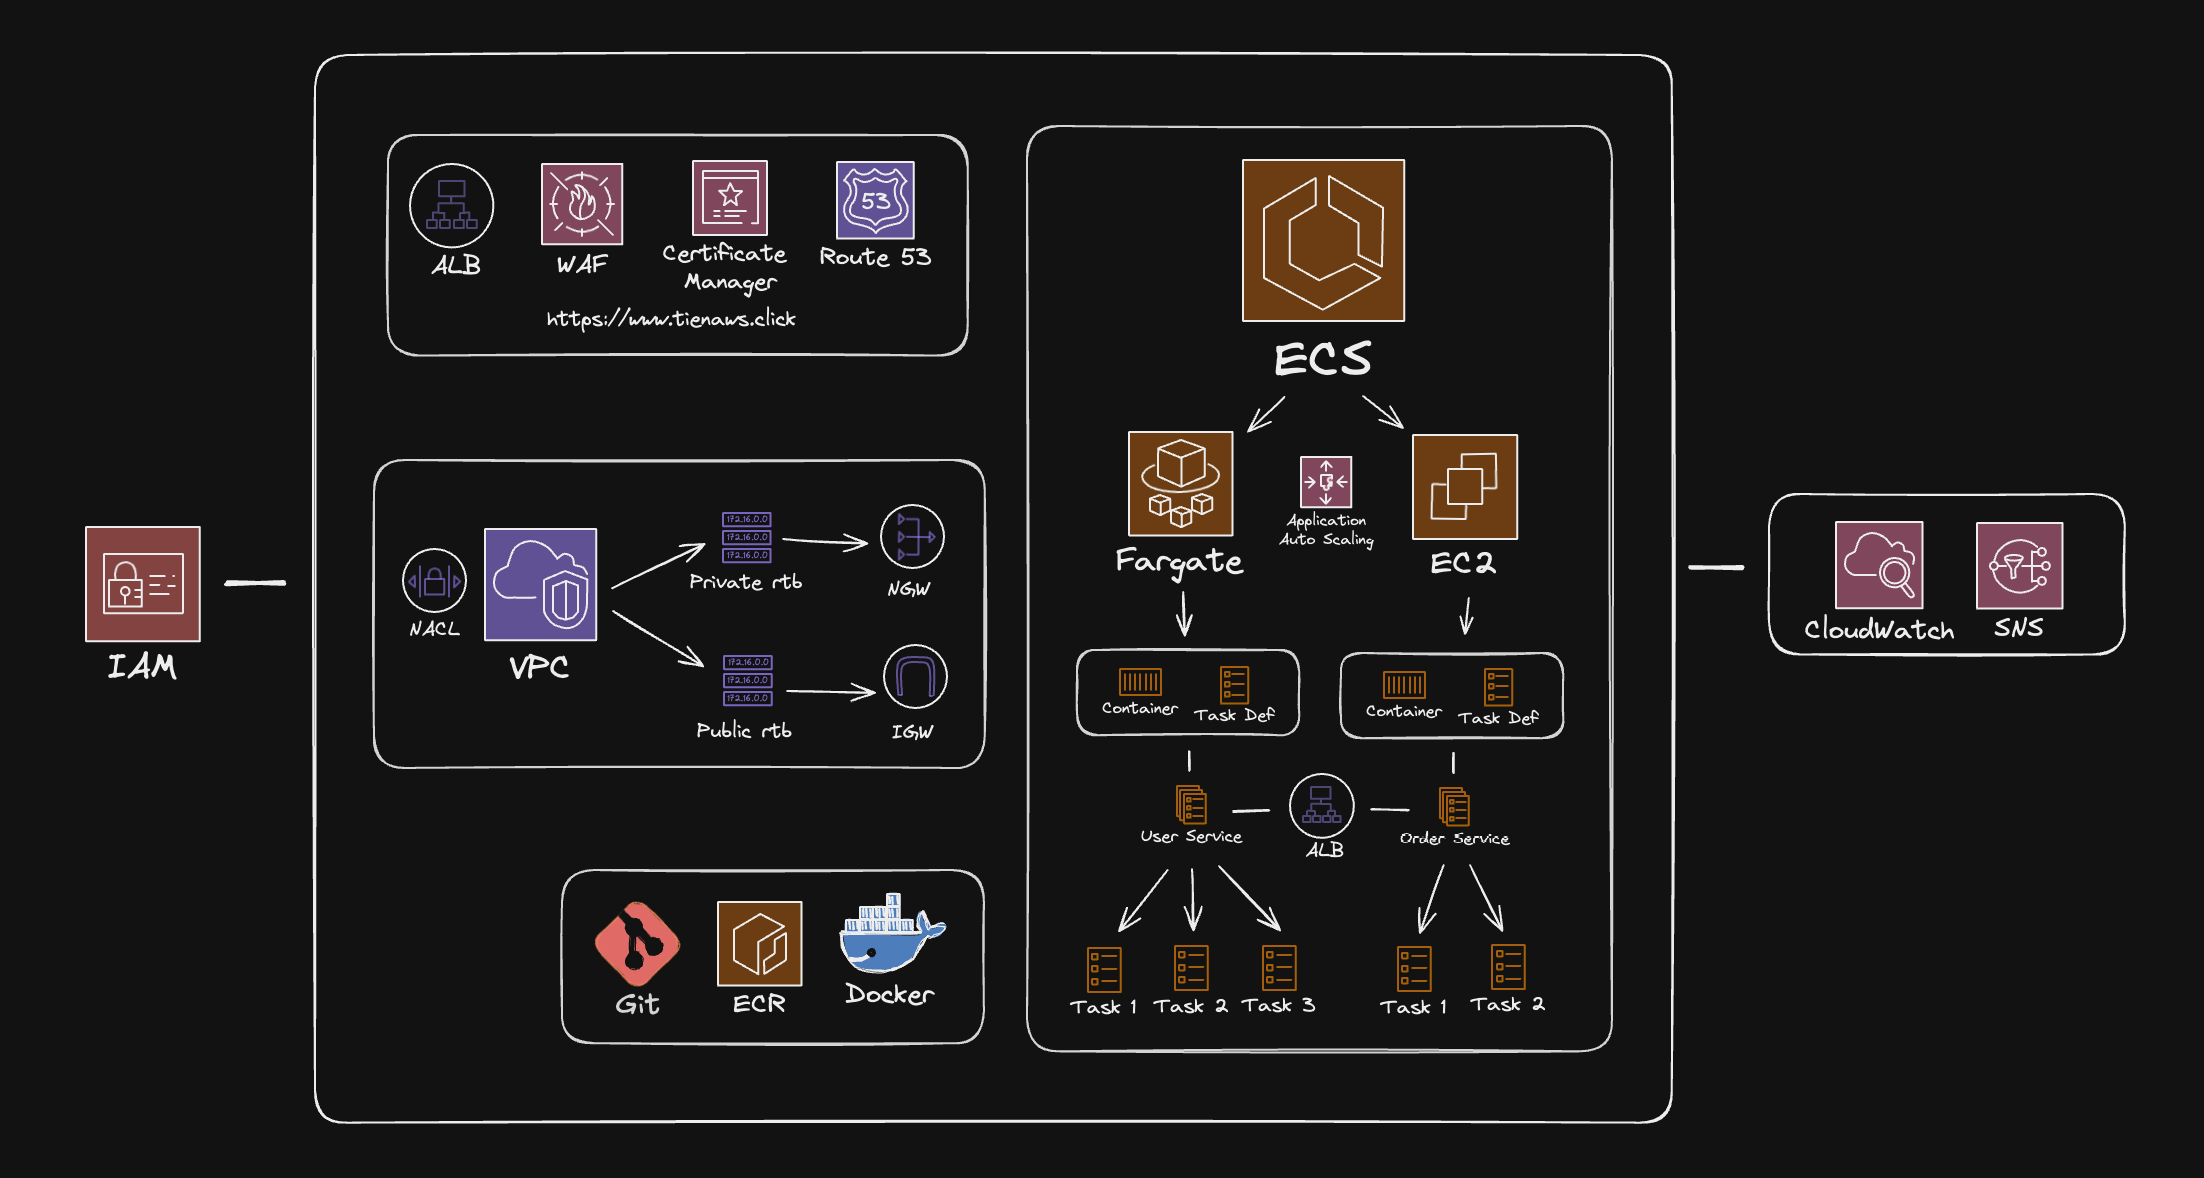
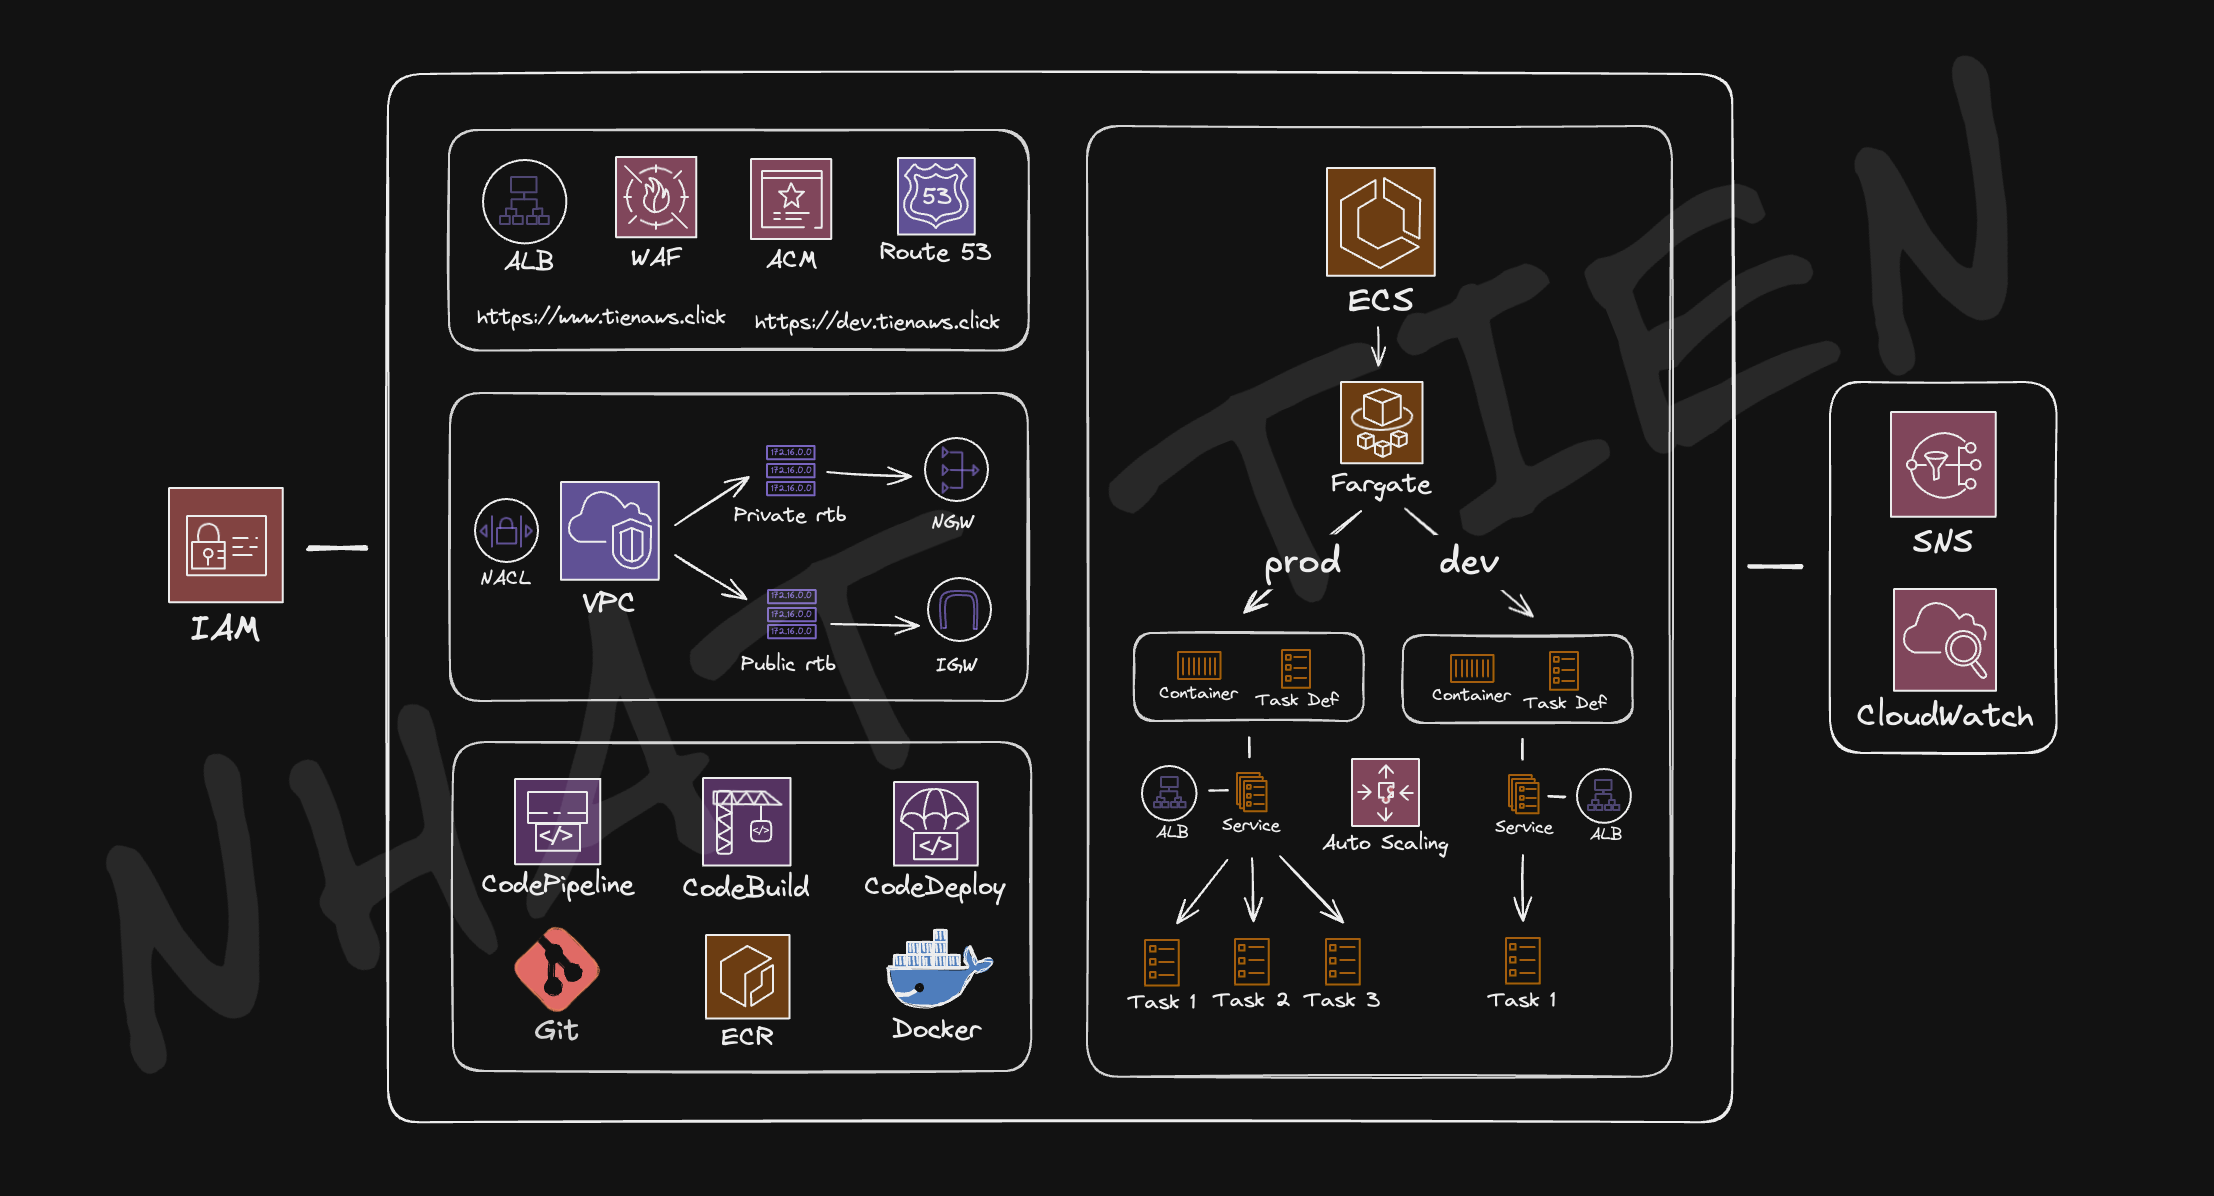
refactor

diff --git a/README.md b/README.md
@@ -1,106 +1,152 @@
-# 📌 Cloud Application Deployment with AWS ECS
+# 📌 Cloud Infrastructure & Deployment with AWS ECS
 
 ## 📝 Project Overview
 
-This project aims to deploy and manage containerized applications on AWS using Amazon ECS (Elastic Container Service). The solution supports both EC2 and Fargate launch types, providing a highly scalable, secure, and automated cloud deployment model that adheres to AWS best practices. The infrastructure leverages key AWS services including VPC, Subnets, Internet Gateway, NAT Gateway, Application Load Balancer (ALB), Security Groups, ECS Clusters, Task Definitions, and Auto Scaling. Additionally, the project integrates AWS Route 53 and ACM for secure HTTPS access.
-
 ![overview](resources/overview.png)
+
+---
 
 ## 🏗 Architecture & Technologies
 
 ### 🧱 Infrastructure & Networking
 
-- <img src="https://i.imgur.com/FNOLEI9.jpeg" width="30" height="30" /> **Amazon VPC (Virtual Private Cloud)**:  
-  A custom VPC (`container_vpc`) with six subnets, including public, private, and database subnets, designed to isolate workloads for enhanced security.
-
-- **Internet Gateway (IGW)**:  
-  Enables access to public resources from the internet, attached to `container_vpc`.
-
-- **NAT Gateway (NGW)**:  
-  Provides secure internet access for private subnets, associated with an Elastic IP in `container_public_az1`.
-
+- <img src="https://i.imgur.com/FNOLEI9.jpeg" width="30" height="30" /> **Virtual Private Cloud (VPC)**: A custom network setup with multiple subnets, including public, private, and database subnets, ensuring workload isolation and security.
+- **Internet Gateway (IGW)**: Allows access to public resources from the internet, attached to the VPC.
+- **NAT Gateway (NGW)**: Provides secure internet access for private subnets, associated with an Elastic IP.
 - **Route Tables**:
-
-  - **Public Route Table**: Routes traffic from public subnets to the internet via IGW.
-  - **Private Route Table**: Routes traffic from private subnets to the internet via NGW.
-
-- **Network ACLs (NACLs)**:  
-  Configured to manage inbound and outbound traffic across subnets, ensuring robust security across the environment.
-
-  ![vpc](resources/vpc.png)
-
+  - Public route table directs traffic to the internet via IGW.
+  - Private route table routes traffic via NGW.
+- **Network ACLs (NACLs)**: Manages inbound and outbound traffic across subnets to enhance security.
 - **Security Groups (SGs)**:
+  - Public security group allows HTTP, HTTPS, and application-specific traffic.
+  - Private security group restricts access, permitting only traffic from the load balancer.
 
-  - **container_public_sg**: Allows inbound HTTP (80), HTTPS (443), and application-specific port (8080) traffic.
-  - **container_private_sg**: Restricts access to private subnets, only allowing traffic originating from the Application Load Balancer (ALB).
+![vpc](resources/vpc.png)
 
-  ![sg](resources/sg.png)
-
-### 🖥 Compute & Container Orchestration
-
-- <img src="https://i.imgur.com/SWw2HAB.png" width="30" height="30" /> **Amazon ECS Cluster (`tienaws-ecs`)**:  
-  Manages containerized workloads and tasks across EC2 and Fargate launch types.
-
-- <img src="https://i.imgur.com/WZPqH1T.png" width="30" height="30" /> **AWS Fargate**:  
-  A serverless compute engine that abstracts infrastructure management, allowing ECS tasks to be run without the need for provisioning servers.
-
-- <img src="https://i.imgur.com/9AUocjJ.png" width="30" height="30" /> **EC2 Instance**:  
-  ECS-optimized Amazon Linux 2 instance (`t2.micro`), used to support EC2-based ECS deployments.
-
-- <img src="https://i.imgur.com/4rPiNGc.png" width="30" height="30" /> **ECR**:  
-  A fully managed **private** Docker container registry where images used by ECS tasks are securely stored and versioned.
-
-- <img src="https://raw.githubusercontent.com/devicons/devicon/master/icons/docker/docker-original.svg" alt="Docker" width="30" height="30"/> **Docker**:  
-  Container runtime used to run containerized applications within ECS tasks.
-
-  ![ecr](resources/ecr.png)
-
-### 💸 Deployment & Scaling
-
-- **Task Definitions**:
-
-  - `order-ec2-td`: Task definition for EC2-based deployments, using the `awsvpc` networking mode.
-  - `user-fargate-td`: Task definition for Fargate-based deployments, also using the `awsvpc` networking mode.
-
-- **ECS Services**:
-
-  - **`order-svc`**: Runs on EC2 instances using the `order-ec2-td` task definition, deployed in private subnets behind an ALB.
-  - **`user-svc`**: Runs on AWS Fargate using the `user-fargate-td` task definition, deployed in private subnets behind an ALB.
-
-- **Auto Scaling**:
-
-  - Configured with a minimum of 1 and a maximum of 5 tasks, using the `ALBRequestCountPerTarget` metric for scaling based on incoming traffic.
-
-  ![services](resources/services.png)
+---
 
 ### ⚖ Load Balancing & DNS
 
-- <img src="https://i.imgur.com/GMr01eh.png" width="30" height="30" /> **Application Load Balancer (ALB)**:  
-  Manages HTTP/HTTPS traffic and distributes it to ECS services based on defined routing rules. The ALB is configured with two listeners: port 80 for HTTP and port 443 for HTTPS. Target Groups (`alb-tg-default`, `order-svc`, `user-svc`) route traffic to appropriate services based on path patterns.
+- <img src="https://i.imgur.com/GMr01eh.png" width="30" height="30" /> **Application Load Balancer (ALB)**: Manages HTTP/HTTPS traffic and distributes it to services based on routing rules.
 
-  ![alb](resources/alb.png)
+![alb](resources/alb.png)
 
-- <img src="https://i.imgur.com/jFcQvRW.png" width="30" height="30" /> **AWS Web Application Firewall (WAF)**: Protects the application from common web threats, such as **SQL Injection (SQLi)** and **Cross-Site Scripting (XSS)**. Integrated with **Application Load Balancer**, AWS WAF filters and blocks malicious traffic based on defined security rules.
+- <img src="https://i.imgur.com/jFcQvRW.png" width="30" height="30" /> **Web Application Firewall (WAF)**: Protects against common security threats, including SQL Injection (SQLi) and Cross-Site Scripting (XSS).
 
-  ![alb](resources/waf.png)
+  - DEV
+    ![waf-dev](resources/waf-dev.png)
+  - PROD
+    ![waf-prod](resources/waf-prod.png)
 
-- <img src="https://i.imgur.com/CHzMALx.png" width="30" height="30" /> **AWS Route 53**:  
-  The DNS service is configured with a custom domain (`tienaws.click`). The ALB is mapped to `ecs-alb.tienaws.click` via an A record for DNS resolution, ensuring seamless access to the application.
+- <img src="https://i.imgur.com/CHzMALx.png" width="30" height="30" /> **Amazon Route 53**: Routes domain traffic to the appropriate endpoints.
 
-  ![route-53](resources/route-53.png)
+![route-53](resources/route-53.png)
 
-- <img src="https://i.imgur.com/s1HtY0n.png" width="30" height="30" /> **AWS Certificate Manager (ACM)**:
-  Provides SSL/TLS certificate for securing HTTPS traffic. HTTP requests are automatically redirected to HTTPS using a listener rule on the ALB, ensuring secure communication.
+- <img src="https://i.imgur.com/s1HtY0n.png" width="30" height="30" /> **Certificate Manager (ACM)**: Provides SSL/TLS certificates to ensure secure communication over HTTPS.
 
-  ![acm](resources/acm.png)
+![acm](resources/acm.png)
 
-## 🌐 Application Access
+---
 
-- **Main URL**:
-  ❗❗The application is currently unavailable as the services have been stopped to prevent additional costs.
+### 🖥 Container Orchestration
 
-  - [https://www.tienaws.click/](https://ecs-alb.tienaws.click/)
-  - [https://www.tienaws.click/user](https://ecs-alb.tienaws.click/user)
-  - [https://www.tienaws.click/order](https://ecs-alb.tienaws.click/order)
+- <img src="https://i.imgur.com/SWw2HAB.png" width="30" height="30" /> **Elastic Container Service (ACM)**: A fully managed container orchestration service that simplifies the deployment, scaling, and management of containerized applications.
+- <img src="https://i.imgur.com/WZPqH1T.png" width="30" height="30" /> **Serverless Compute Engine (Fargate)**: Eliminates the need for server provisioning, allowing automatic scaling and resource optimization.
 
-    ![user](resources/user-service.png)
+  - DEV
+    ![dev-cluster](resources/dev-cluster.png)
+  - PROD
+    ![prod-cluster](resources/prod-cluster.png)
+
+---
+
+## ♻ CI/CD Pipeline
+
+This CI/CD pipeline is built using **AWS DevOps Services**, ensuring efficient and automated deployment. It leverages:
+
+- <img src="https://i.imgur.com/4Ztfkdb.png" width="30" height="30" /> **AWS CodePipeline** for continuous integration and deployment automation.
+- <img src="https://i.imgur.com/upNyo8b.png" width="30" height="30" /> **AWS CodeBuild** for compiling, packaging, and containerizing applications.
+- <img src="https://i.imgur.com/MmcSYIE.png" width="30" height="30" /> **AWS CodeDeploy** for automated and zero-downtime deployments.
+- <img src="https://i.imgur.com/EVxxE9V.png" width="30" height="30" /> **Amazon SNS** for deployment approval notifications and alerts.
+
+![pipeline](resources/pipeline.png)
+
+- <img src="https://i.imgur.com/4rPiNGc.png" width="30" height="30" /> **Amazon ECR** for secure container image storage.
+- <img src="https://raw.githubusercontent.com/devicons/devicon/master/icons/docker/docker-original.svg" alt="Docker" width="30" height="30"/> **Docker** for containerization and efficient deployment.
+
+![ecr](resources/ecr.png)
+
+---
+
+### ⚙ Build & Deployment Stages
+
+1. **Code Commit & Build**
+
+- Developers push code to the **GitHub repository**.
+- AWS **CodePipeline** detects the changes and triggers the **CodeBuild** process.
+- The application is compiled, packaged, and containerized.
+- The built image is pushed to **ECR** for deployment.
+
+  ![build](resources/build.png)
+
+2. **Development Deployment**
+
+- The pipeline automatically deploys the new version to the **development environment** for testing whenever changes are pushed to the `dev` branch.
+
+  ![pipeline-dev](resources/pipeline-dev.png)
+
+3. **Merge & Trigger Production Pipeline**
+
+- Once the changes in the `dev` branch are tested and approved, they are merged into the `main` branch.
+- **AWS CodePipeline for production** is configured to **only trigger when there is a new commit in the `main` branch**.
+
+  ![pipeline-prod](resources/pipeline-prod.png)
+
+4. **Approval & Production Deployment**
+
+- A manual approval step (e.g., via SNS) ensures only validated changes reach production.
+- Once approved, the deployment proceeds to the production environment.
+
+  ![sns-approve](resources/sns-approve.png)
+
+---
+
+## 🎉 Deployment Results
+
+### 🛠 Dev Environment
+
+- Changes pushed to the `dev` branch are automatically deployed to the **development environment**.
+- This environment is used for testing and validating new features before they are merged into `main`.
+- Developers can access the latest build to verify functionality, debug issues, and ensure stability.
+
+  ![dev](resources/dev.png)
+
+### ⚡ Before Merge
+
+- The production environment before the latest update.
+- This represents the last stable version running before new changes are deployed.
+
+  ![prod-before](resources/prod-before.png)
+
+### ✨ After Merge
+
+- The production environment after the latest deployment.
+- The newly merged and approved changes are now live.
+
+  ![prod-after](resources/prod-after.png)
+
+---
+
+## 📡 Monitoring
+
+### <img src="https://i.imgur.com/rAsQAY5.png" width="30" height="30" /> **CloudWatch**
+
+- **Monitoring & Logging**: Collects and stores logs from ECS containers for application tracking.
+- **Log Insights**: Enables querying logs for error analysis and performance monitoring.
+- **Alarms & Alerts**: Triggers alerts based on application errors or resource overuse.
+
+  - **Logs**  
+    ![log-cloudwatch](resources/log-cloudwatch.png)
+
+  - **Alarms**  
+    ![alarm-cloudwatch](resources/alarm-cloudwatch.png)
